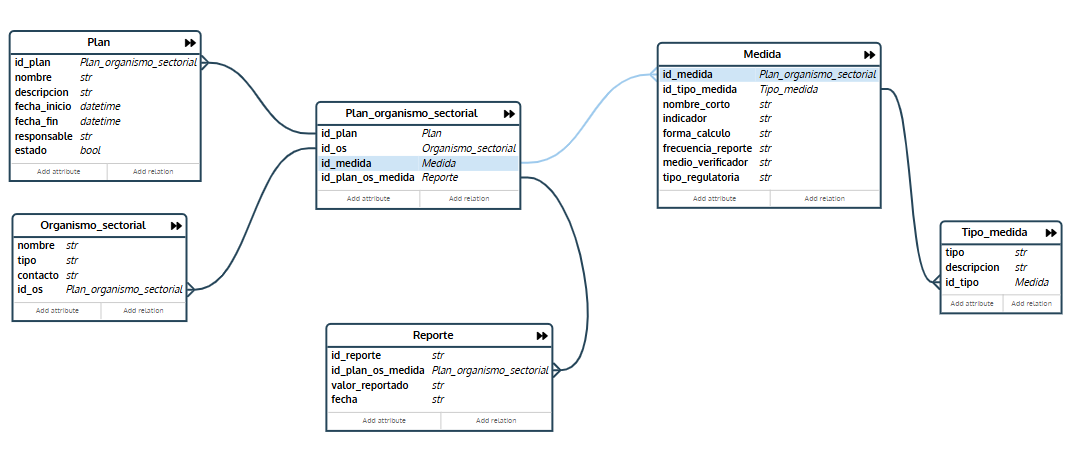
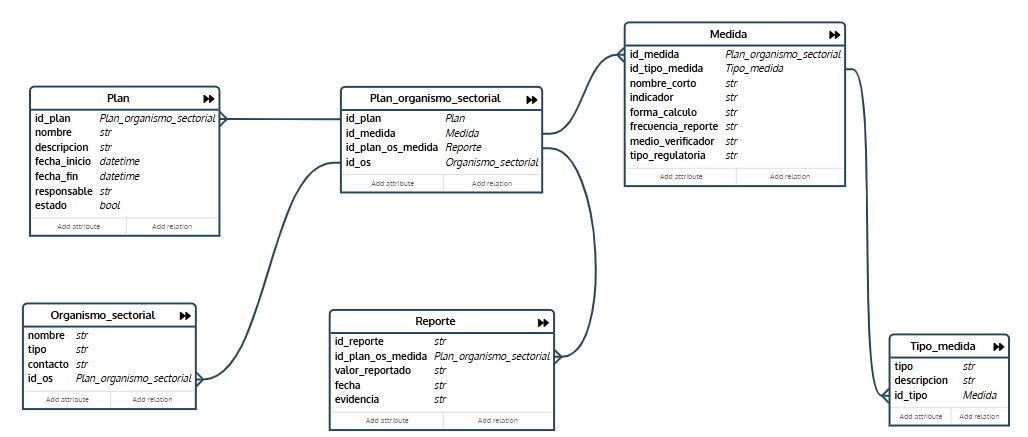
actualización home: se quita la función crear plan

diff --git a/api/templates/reporte.html b/api/templates/reporte.html
@@ -1,0 +1,59 @@
+{% extends 'base.html' %}
+
+{% block content %}
+<!-- Botón Volver al Home -->
+<div class="mb-4">
+    <a href="{% url 'html_home' %}" class="btn btn-secondary">
+        <i class="fas fa-arrow-left"></i> Volver al Home
+    </a>
+</div>
+
+<h1>Listado de Reportes</h1>
+<table class="table table-striped">
+    <thead>
+        <tr>
+            <th>ID</th>
+            <th>Plan Organismo Sectorial</th>
+            <th>Valor Reportado</th>
+            <th>Evidencia</th>
+            <th>Fecha Reporte</th>
+        </tr>
+    </thead>
+    <tbody>
+        {% for reporte in reportes %}
+        <tr>
+            <td>{{ reporte.id }}</td>
+            <td>{{ reporte.id_plan_organismo_sectorial }}</td>
+            <td>{{ reporte.valor_reportado }}</td>
+            <td>{{ reporte.evidencia|truncatechars:50 }}</td>
+            <td>{{ reporte.fecha_reporte|date:"d/m/Y" }}</td>
+        </tr>
+        {% endfor %}
+    </tbody>
+</table>
+
+{% endblock %}
+
+{% block extra_css %}
+<style>
+    .table th {
+        background-color: #f8f9fa;
+    }
+    .badge {
+        padding: 0.5em 0.8em;
+    }
+    .truncate {
+        max-width: 150px;
+        white-space: nowrap;
+        overflow: hidden;
+        text-overflow: ellipsis;
+    }
+    .btn-secondary {
+        margin-bottom: 20px;
+        transition: all 0.3s ease;
+    }
+    .btn-secondary:hover {
+        transform: translateX(-5px);
+    }
+</style>
+{% endblock %}

diff --git a/api/templates/home.html b/api/templates/home.html
@@ -14,9 +14,6 @@
                         <a href="{% url 'html_plan' %}" class="btn btn-primary me-2">
                             <i class="fas fa-list"></i> Ver Planes
                         </a>
-                        <a href="{% url 'html_crear_plan' %}" class="btn btn-success">
-                            <i class="fas fa-plus"></i> Crear Plan
-                        </a>
                     </div>
                 </div>
             </div>

diff --git a/api/templates/planes.html b/api/templates/planes.html
@@ -6,9 +6,6 @@
     <a href="{% url 'html_home' %}" class="btn btn-secondary">
         <i class="fas fa-arrow-left"></i> Volver al Home
     </a>
-    <a href="{% url 'html_crear_plan' %}" class="btn btn-primary">
-        <i class="fas fa-plus"></i> Crear Nuevo Plan
-    </a>
 </div>
 
 <!-- Título y Tabla -->
